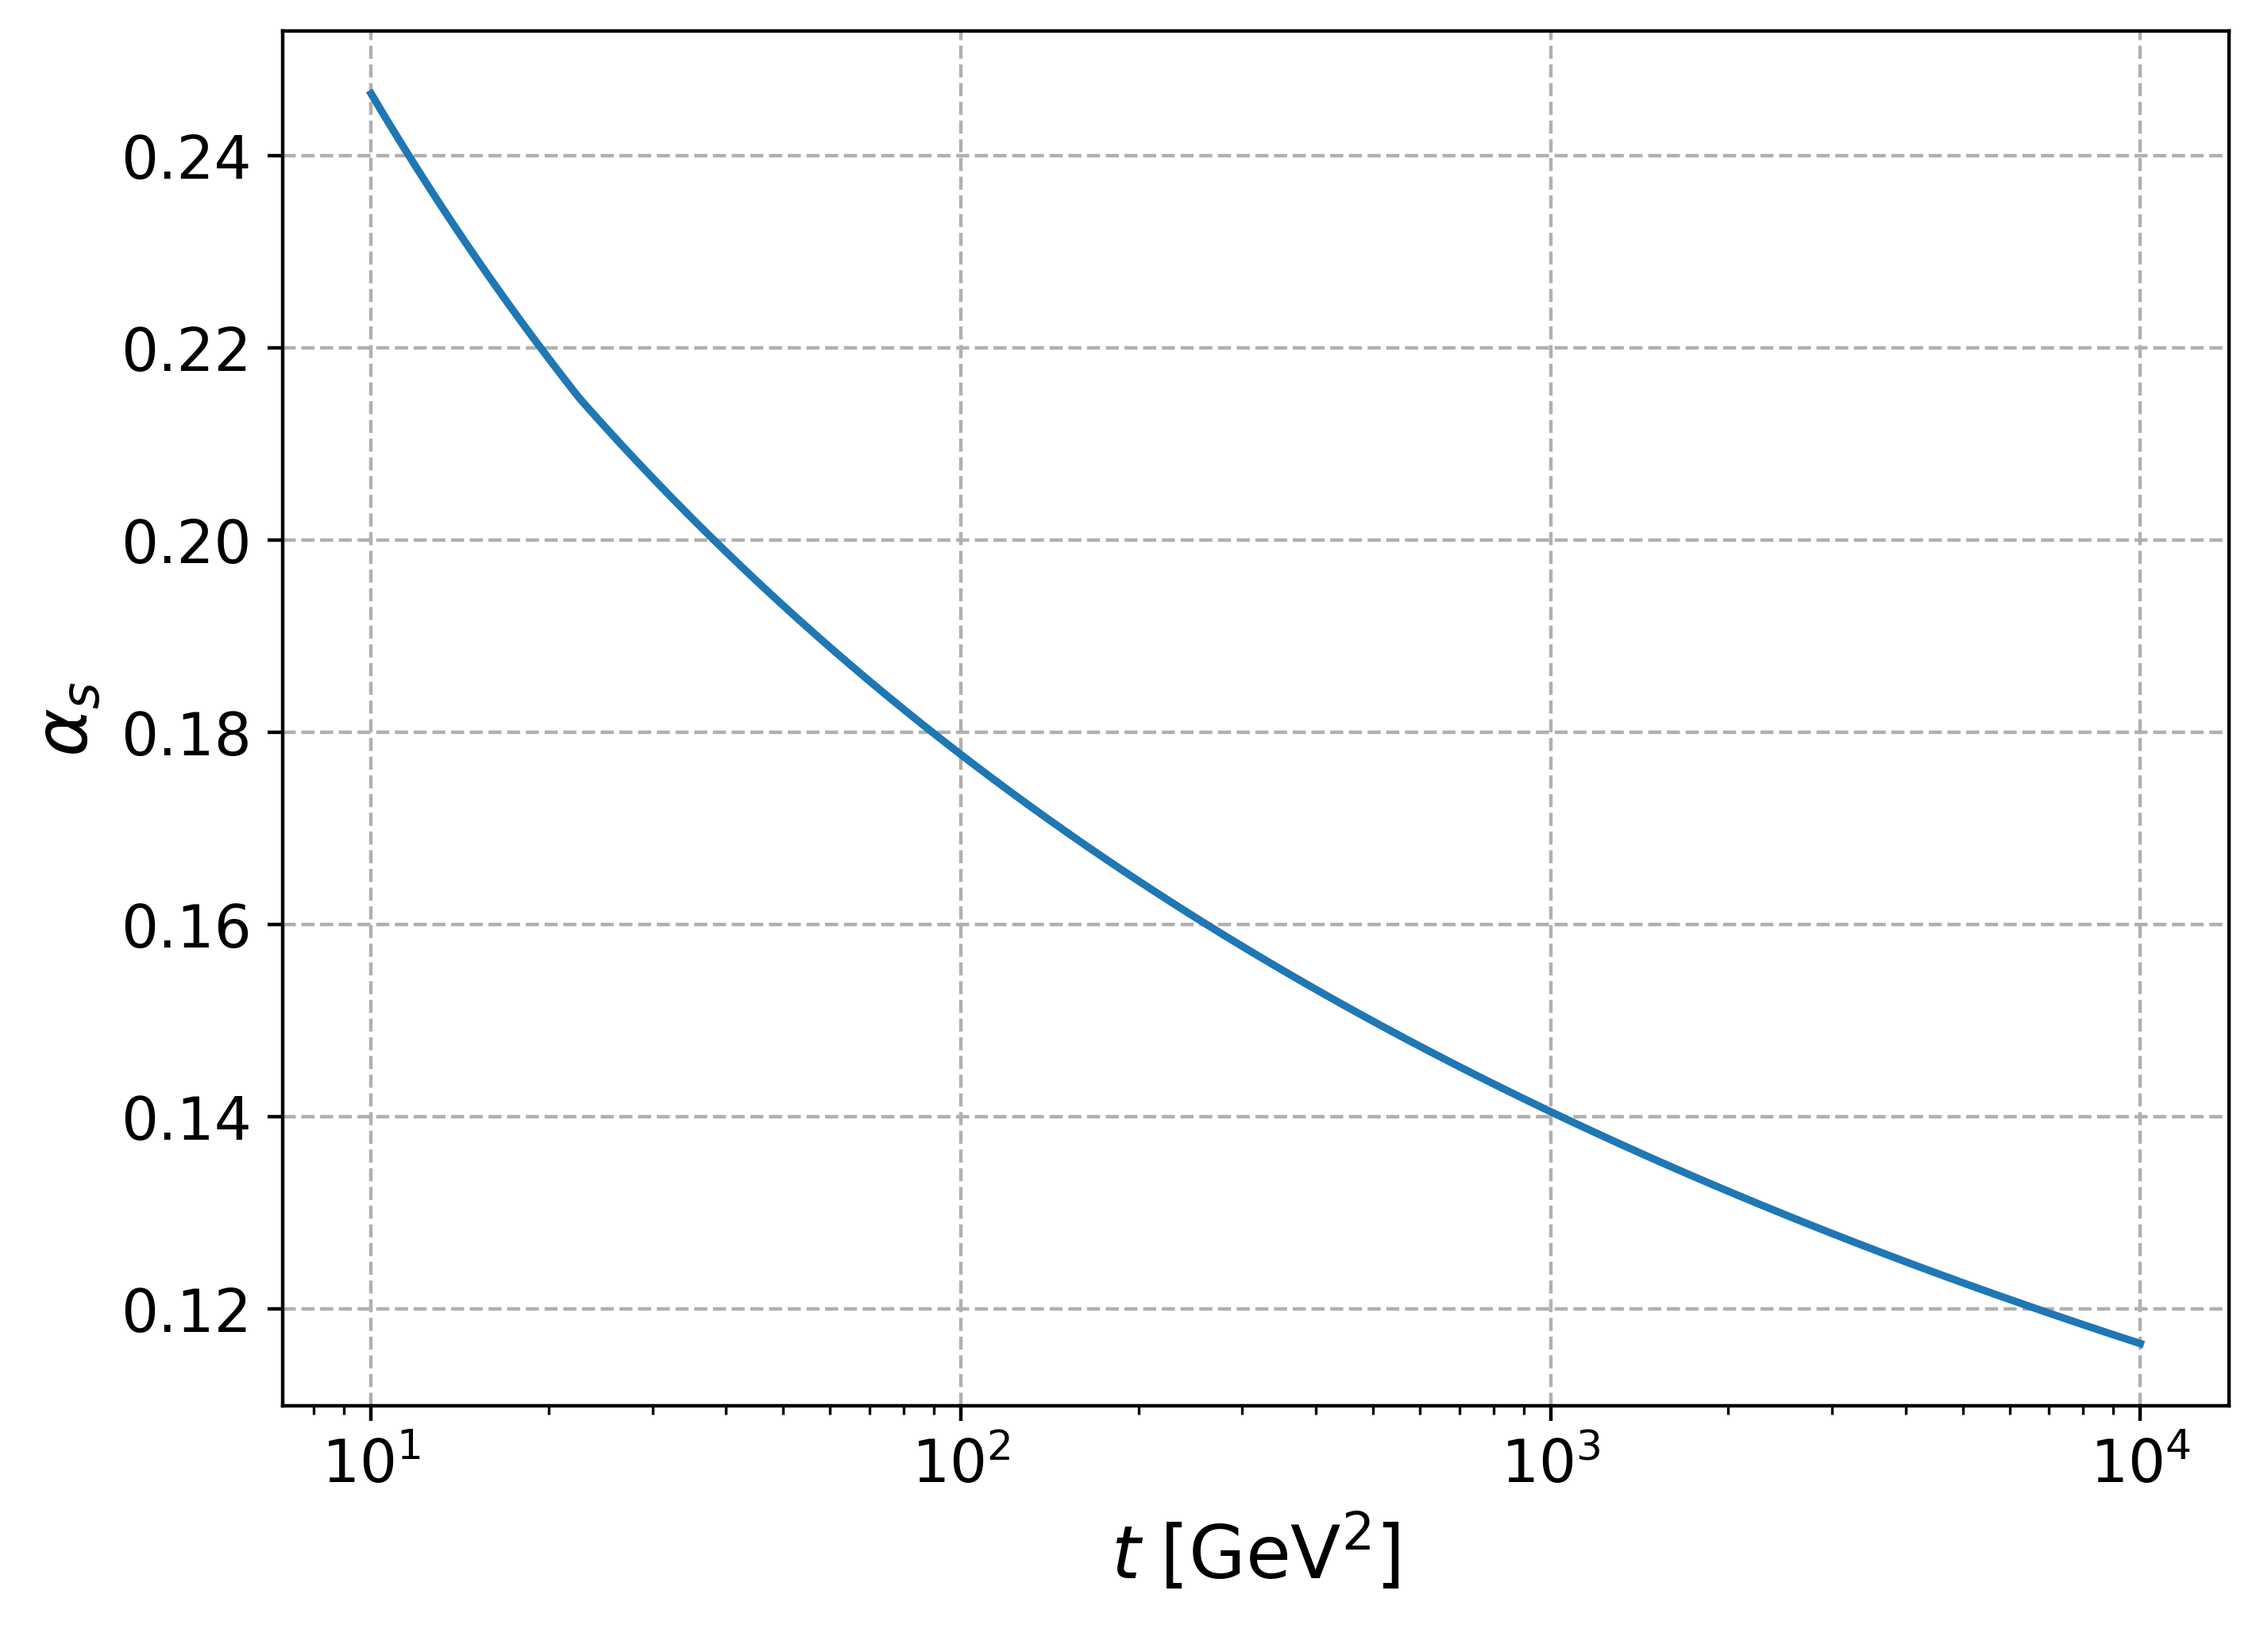
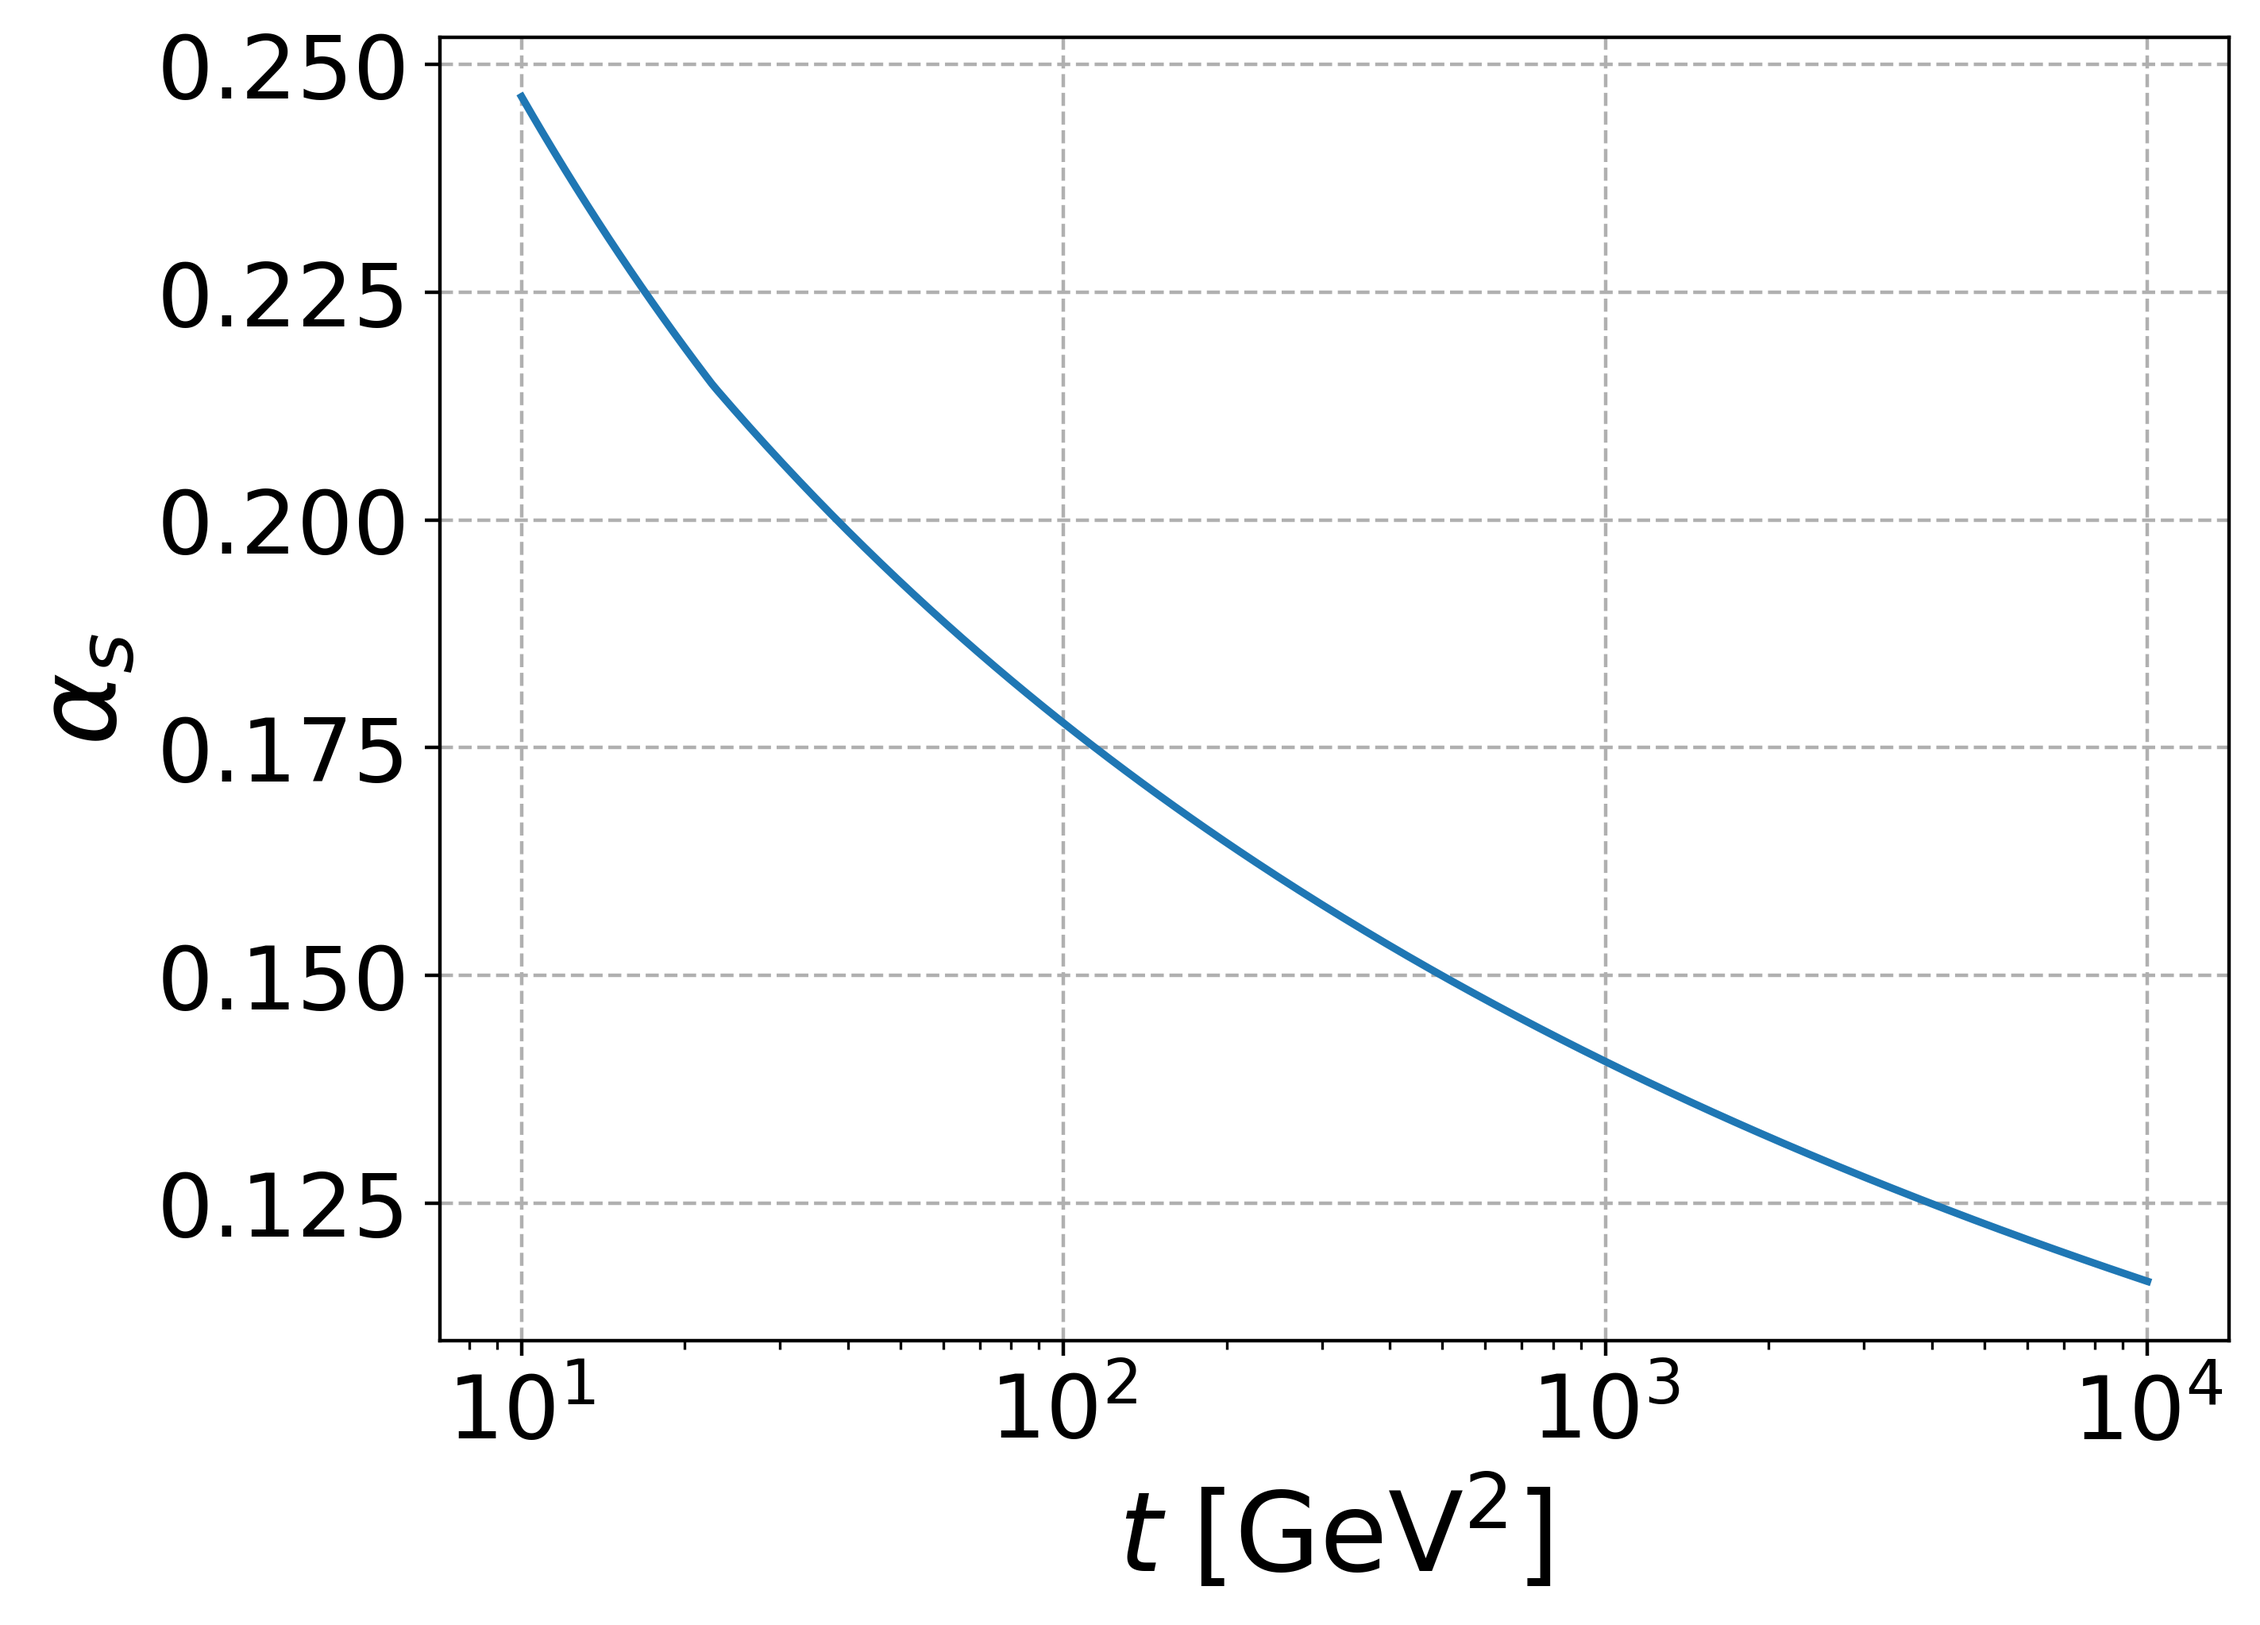
Minor resize of fonts.

diff --git a/exercise2/partA.py b/exercise2/partA.py
@@ -42,6 +42,6 @@ if __name__ == '__main__':
     figures_dir = repo_dir + "/figures/"  # Path to figures/
     figure_name = "exercise2a.png"
     figure_path = figures_dir + figure_name  # Path to save figure.
-    font_size_f = 0.6  # Adjust font sizes for visibility in document.
+    font_size_f = 0.4  # Adjust font sizes for visibility in document.
     dpi = 400  # Dots per inch for saving the figure.
     main()
